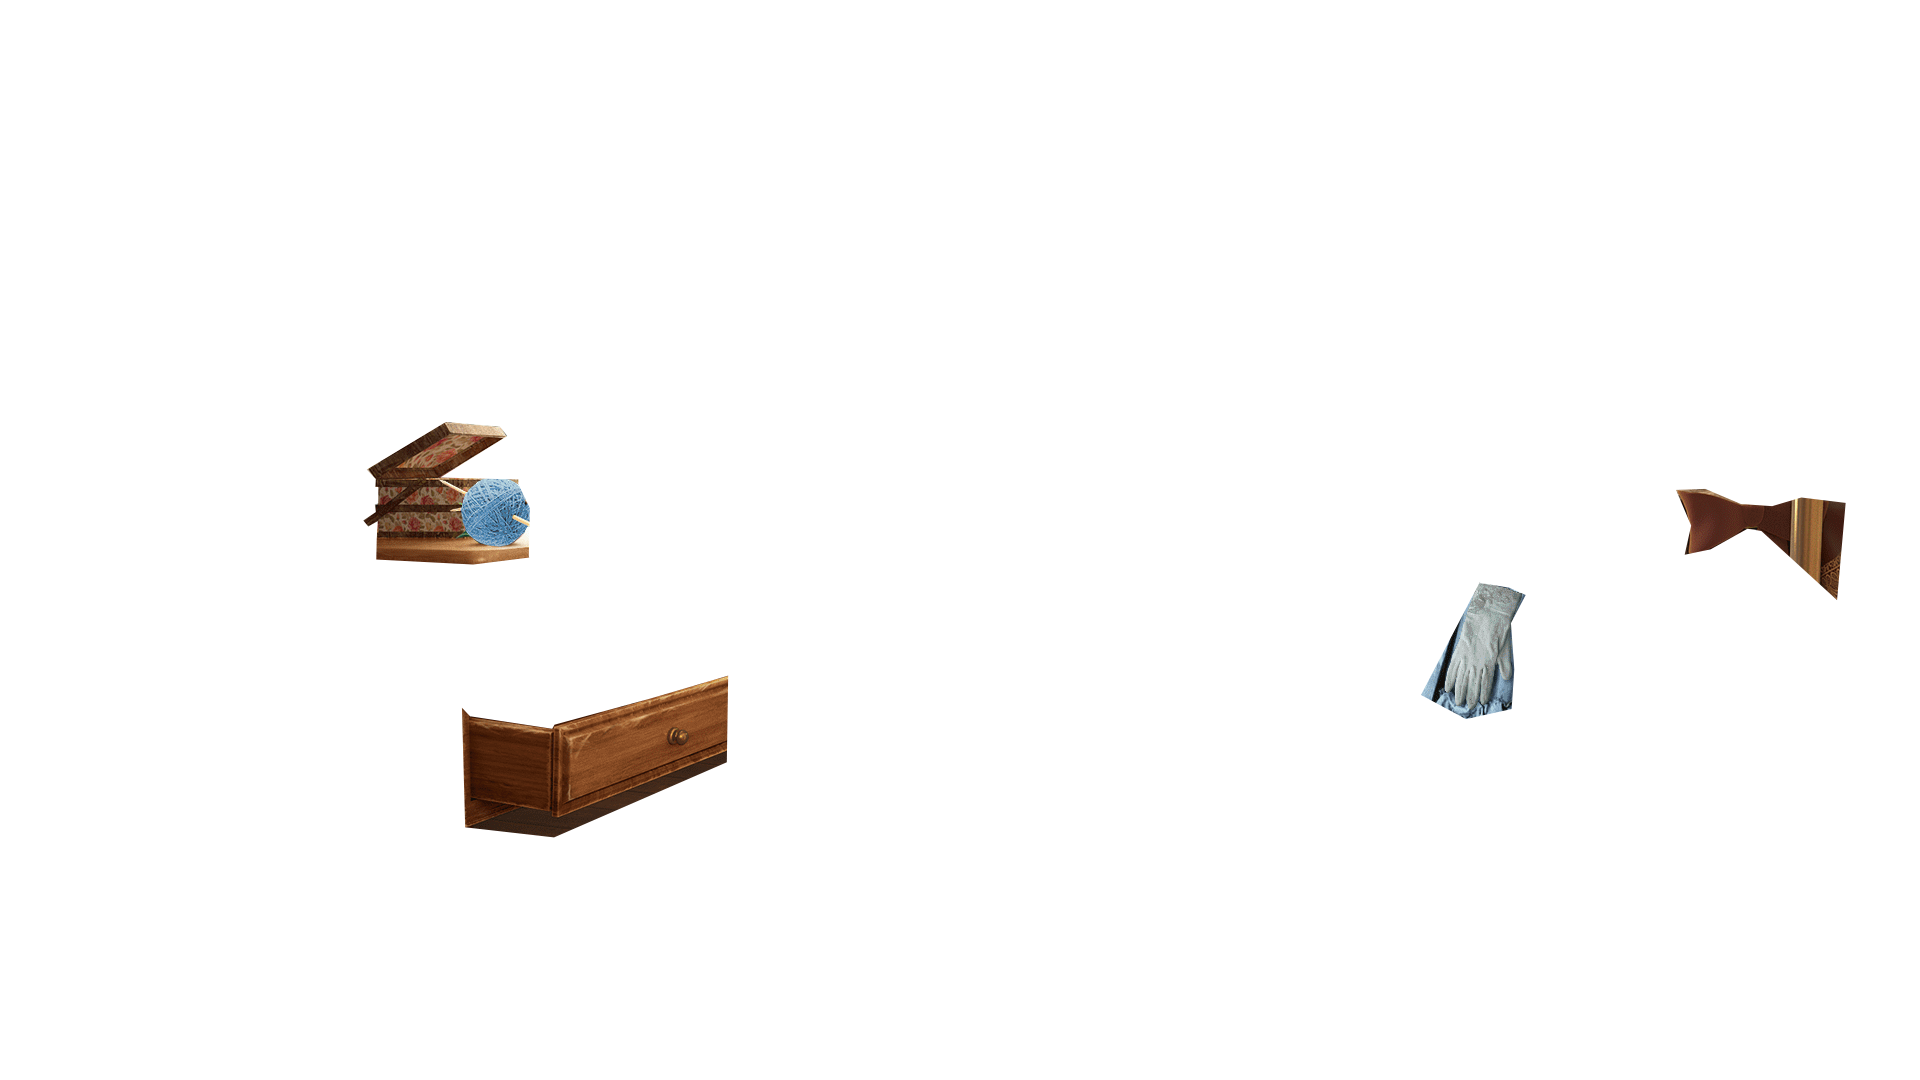
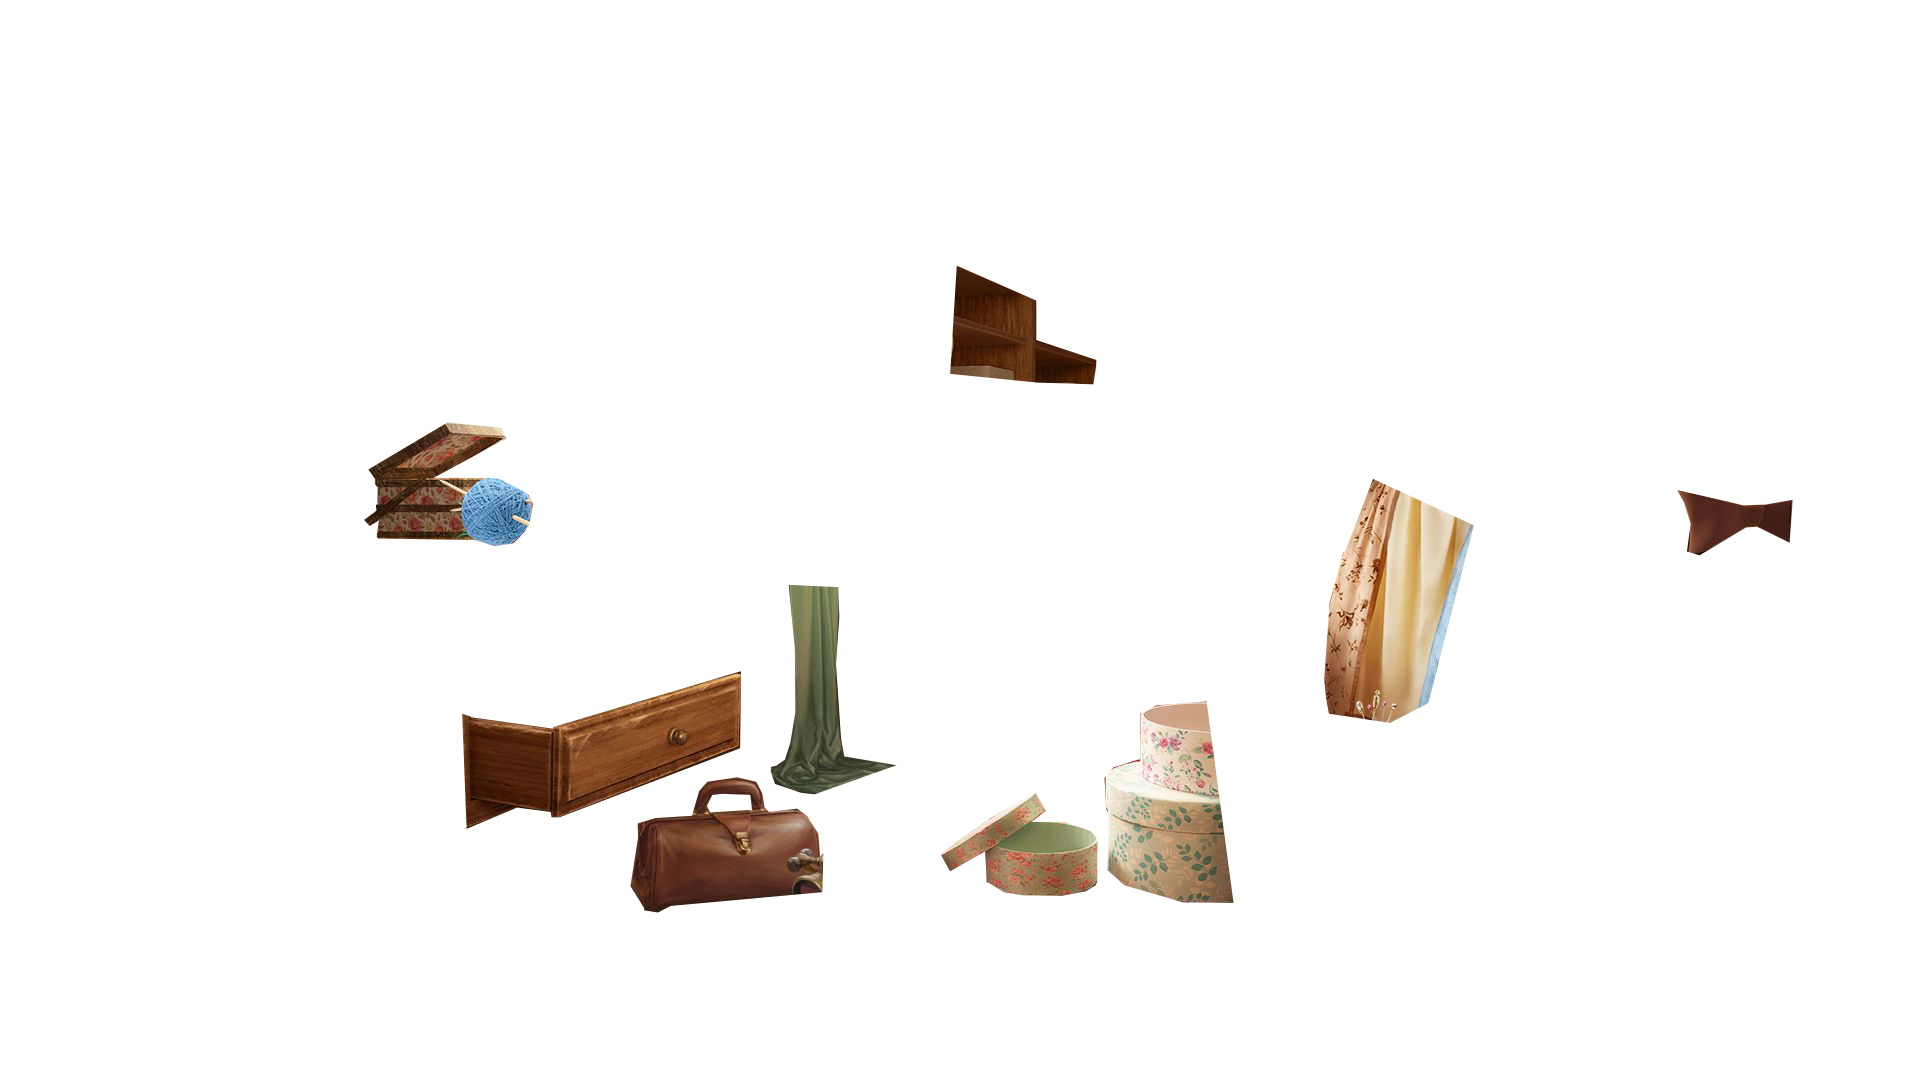
fix object position to level 2,3

diff --git a/src/templates/main.js b/src/templates/main.js
@@ -17,8 +17,6 @@ document.body.onload = () => {
   playSound('music', 'Caribbean Blue'); 
   gameStart();
   hideSpiner();
-  bg.classList.remove('bg_blur');
-  content.classList.remove('bg_blur');
 };
 
 class Game {
@@ -67,7 +65,7 @@ class Game {
   levelUp() {
     ++level;
 
-    if(level > 3) {
+    if(level === 3) {
       level = 0;
     }
   };
@@ -98,6 +96,8 @@ function gameStart() {
   const game = new Game;
   
   game.addedPlace();  
+  bg.classList.remove('bg_blur');
+  content.classList.remove('bg_blur');
   hideTutorial();
   game.levelUp();
 }
@@ -206,11 +206,13 @@ function createdWin() {
   box.innerHTML = html;
 };
 
-function gameStop() {
-  showTutorial();
-  container.innerHTML = '';
+function gameStop() {    
   list.innerHTML = '';
-  playSound('music', 'Caribbean Blue');  
+  container.innerHTML = '';
+  bg.classList.add('bg_blur');
+  content.classList.add('bg_blur');
+  playSound('music', 'Caribbean Blue'); 
+  showTutorial();
   win.style.display = '';
   count = 0;
   gameStart();

diff --git a/src/templates/objects/objects.css b/src/templates/objects/objects.css
@@ -77,54 +77,58 @@
 
 #shoe,
 .shoe {
-  left: 54%; 
-  top: 49%;  
+  left: 43%;
+  top: 70%;
+  filter: brightness(57%); 
 }
 
 #fan,
 .fan {
-  left: 23%;
-  top: 41%;  
+  right: 26%;
+  top: 10%;
+  transform: rotate(-34deg);
+  filter: brightness(67%);  
 }
 
 #book,
 .book {
   left: 27%;
-  top: 62%;
+  top: 63%;
   transform: rotate(15deg);
 }
 
 #bird,
 .bird {
-  right: 9%;
-  top: 44%;
-  transform: rotate(30deg) scale(.6);
+  right: 42%;
+  top: 23%;
+  transform: rotateY(193deg) scale(.4);
+  filter: brightness(60%);
 }
 
 #purse,
 .purse {
-  left: 54%; 
-  top: 49%;  
+  left: 70%;
+  top: 62%;  
 }
 
 #basket,
 .basket {
-  left: 23%;
-  top: 41%;  
+  left: 57%;
+  top: 80%; 
 }
 
 #card,
 .card {
-  left: 27%;
-  top: 62%;
-  transform: rotate(15deg);
+  left: -3%;
+  top: 1%;
+  transform: rotate(21deg);
 }
 
 #apple,
 .apple {
-  right: 9%;
-  top: 44%;
-  transform: rotate(30deg) scale(.6);
+  left: 52%;
+  top: 75%;
+  transform: scale(.6);
 }
 
 .object_clone {

diff --git a/src/templates/gui/gui.css b/src/templates/gui/gui.css
@@ -16,6 +16,7 @@
   text-align: center;
   transition: .3s;
   width: 30%;
+  z-index: 5;
 }
 
 .tutorial__bg {
@@ -40,6 +41,7 @@
   margin: 0 auto;
   position: relative;
   width: 70%;
+  z-index: 9;
 }
 
 .list__bg-wrapper {
